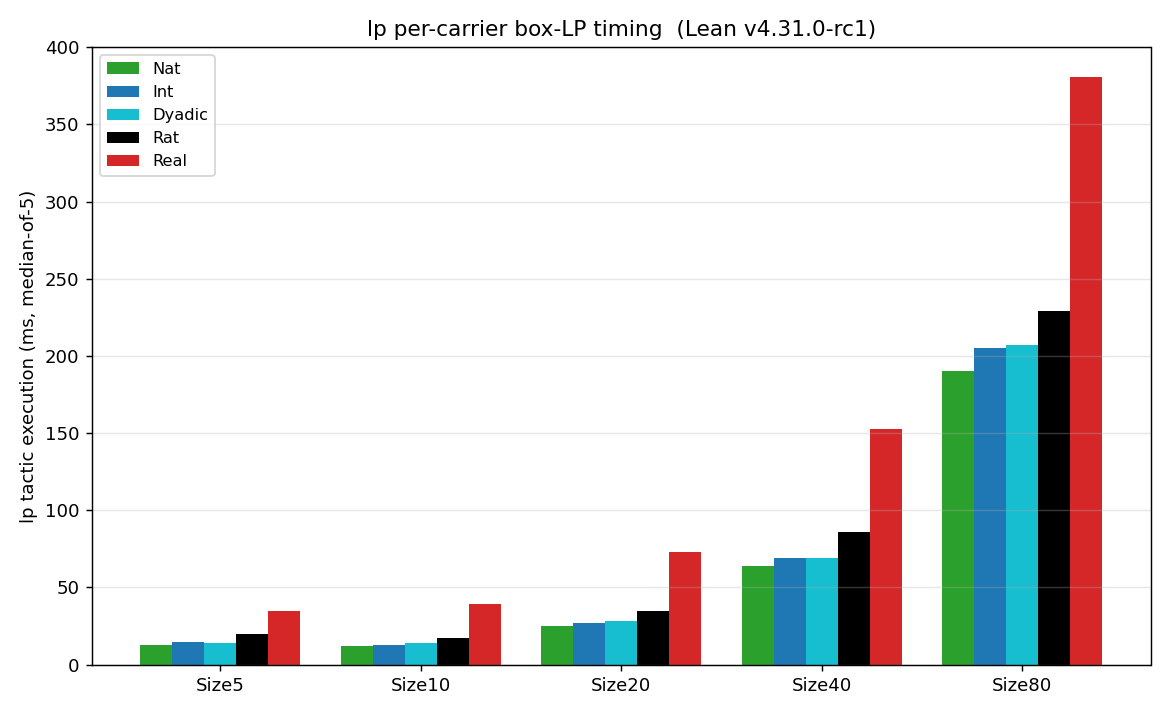
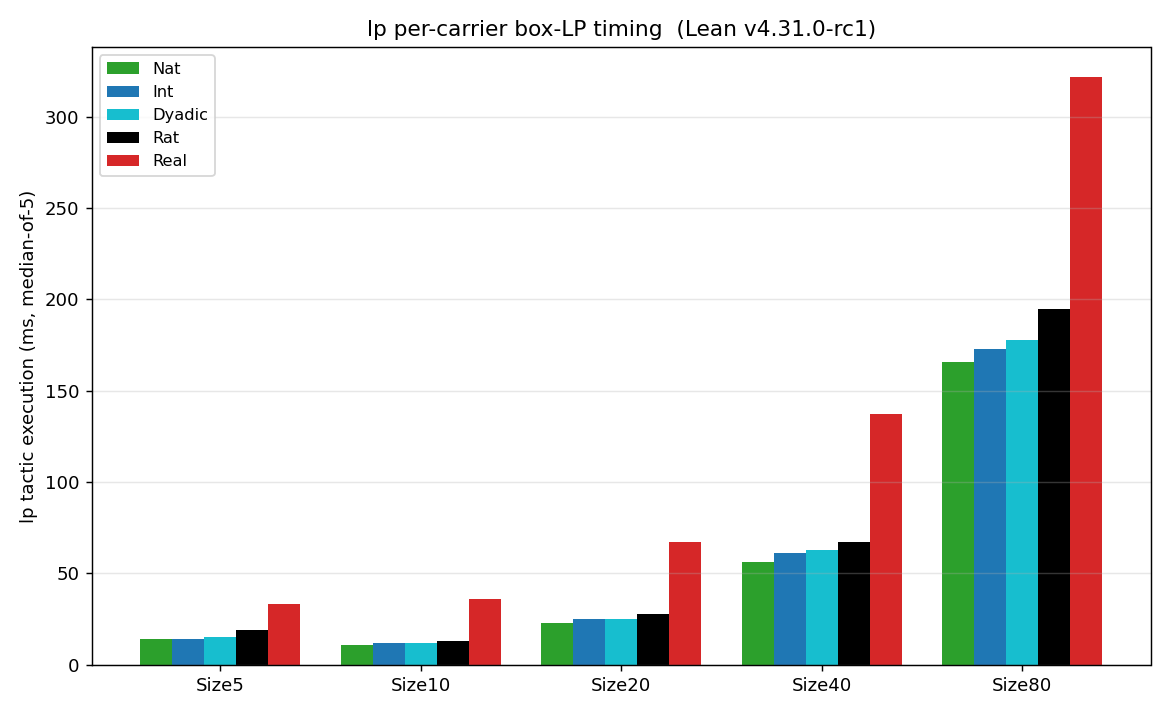
chore: refresh published numbers at lp ea9a0d5
Re-measured median-of-5 on the same M1 MacBook after the
post-release performance work (checker allocation rework, normalizer
index-cache + fused accumulation, packed-bytes FFI marshalling).
Headline geomean vs linarith improves ~2.0x -> ~2.3x; the largest
single change is NonTrivial (rational coefficients): 1.94x -> 2.81x.
All five carriers improve modestly; plots regenerated.

diff --git a/README.md b/README.md
@@ -83,23 +83,26 @@ elaboration overhead (cache warmth, etc.) is matched between them.
 
 ## Results
 
-Median of 5 runs, M1 MacBook, `v4.31.0-rc1`, soplex `b22aceb` (main, carrier engine),
-mathlib at PR #40110 head:
+Median of 5 runs, M1 MacBook, `v4.31.0-rc1`, lp `ea9a0d5` (main: carrier
+engine + the index-cache / fused-accumulation normalizer work and the
+packed-bytes FFI marshalling), mathlib at PR #40110 head:
 
 | Benchmark   | `by lp` | `by linarith (config := {})` | ratio (lin/lp) |
 |-------------|--------:|-----------------------------:|---------------:|
-| Headline    |   19 ms |                        53 ms |          2.79× |
-| Size5       |   22 ms |                        46 ms |          2.09× |
-| Size10      |   26 ms |                        57 ms |          2.19× |
-| Size20      |   43 ms |                        84 ms |          1.95× |
-| Size40      |   92 ms |                       163 ms |          1.77× |
-| Size80      |  237 ms |                       417 ms |          1.76× |
-| NonTrivial  |   86 ms |                       167 ms |          1.94× |
+| Headline    |   16 ms |                        46 ms |          2.87× |
+| Size5       |   18 ms |                        40 ms |          2.22× |
+| Size10      |   22 ms |                        52 ms |          2.36× |
+| Size20      |   37 ms |                        77 ms |          2.08× |
+| Size40      |   76 ms |                       149 ms |          1.96× |
+| Size80      |  197 ms |                       385 ms |          1.95× |
+| NonTrivial  |   55 ms |                       155 ms |          2.81× |
 
-Geometric mean speedup: **~2.0×** in lp's favour. The lead is widest on
-the small/headline problems (2.8×) and narrows toward 1.8× at n=80. `lp` runs
-on the carrier-parametrized engine here; its `Rat` path keeps the original `Q`
-fast-path, so these numbers match the pre-generalization engine within noise.
+Geometric mean speedup: **~2.3×** in lp's favour (up from ~2.0× before the
+post-release performance work landed). The lead is widest on the
+small/headline problems and on rational-coefficient problems
+(NonTrivial: 1.94× → 2.81×, the largest single improvement — the
+normalizer's index-cache and fused-accumulation work), and stays near 2×
+out to n=80.
 
 ![Size sweep, log-log](results/size-sweep.png)
 
@@ -128,21 +131,22 @@ median-of-5, same `v4.31.0-rc1` toolchain and carrier engine as the
 
 | size | Nat | Int | Dyadic | Rat | Real | linarith (Rat) |
 |-----:|----:|----:|-------:|----:|-----:|---------------:|
-| 5    | 13  | 15  | 14     | 20  | 35   | 45 |
-| 10   | 12  | 13  | 14     | 17  | 39   | 39 |
-| 20   | 25  | 27  | 28     | 35  | 73   | 66 |
-| 40   | 64  | 69  | 69     | 86  | 153  | 140 |
-| 80   | 190 | 205 | 207    | 229 | 381  | 380 |
+| 5    | 14  | 14  | 15     | 19  | 33   | 42 |
+| 10   | 11  | 12  | 12     | 13  | 36   | 34 |
+| 20   | 23  | 25  | 25     | 28  | 67   | 57 |
+| 40   | 56  | 61  | 63     | 67  | 137  | 128 |
+| 80   | 166 | 173 | 178    | 195 | 322  | 369 |
 
 Reading:
 
 - **The native computable carriers (`Nat`, `Int`, `Dyadic`) are *faster*
-  than the hand-optimized `Rat` baseline** — 0.65–0.90×. They render
+  than the hand-optimized `Rat` baseline** — 0.75–0.90×. They render
   coefficients as their own kernel-reducible literals, so per-leaf
   arithmetic closes by `Eq.refl` with no proof term at all; `Nat` is fastest
-  (most reducible literals). Generalization didn't regress `Rat` — `Rat`
-  keeps its original `Q`-literal fast-path unchanged.
-- **`Real` pays a flat ~1.6–2.3× over `Rat`** — it is non-computable, so
+  (most reducible literals). The gap narrowed slightly with the
+  post-release normalizer work, which benefits every carrier but `Rat`
+  most.
+- **`Real` pays a flat ~1.7–2.8× over `Rat`** — it is non-computable, so
   coefficients render as `ofRat r` (not defeq to a user literal) and each
   needs a `userLit = ofRat r` bridge proof. This is inherent to an abstract
   field and is the *only* carrier that pays it.
@@ -155,8 +159,9 @@ Reading:
 
 ![Carrier time relative to Rat](results/multicarrier-ratio.png)
 
-Reproduce: the per-carrier `bench/Bench*.lean` files (box-LP over each carrier,
-`import LP`) run median-of-5, then `python3 scripts/plot_multicarrier.py`.
+Reproduce: `./scripts/bench_multicarrier.sh 5` (runs the per-carrier
+`bench/Bench*.lean` box-LP files median-of-5 and writes the CSV), then
+`python3 scripts/plot_multicarrier.py`.
 
 ## Why `linarith (config := {})` and not bare `linarith`?
 
@@ -169,10 +174,10 @@ Size40 shape:
 
 | Call form | median ms |
 |---|---:|
-| `by linarith` | 154 |
-| `by linarith (config := {})` | 148 |
+| `by linarith` | 142 |
+| `by linarith (config := {})` | 131 |
 
-So the `(config := {})` form is **~4% faster** than bare `linarith`,
+So the `(config := {})` form is **~8% faster** than bare `linarith`,
 not 2-3× faster. The choice does not meaningfully affect the comparison;
 the headline ratios above would change by less than 5% in either
 direction. We use `(config := {})` for consistency with our prior
